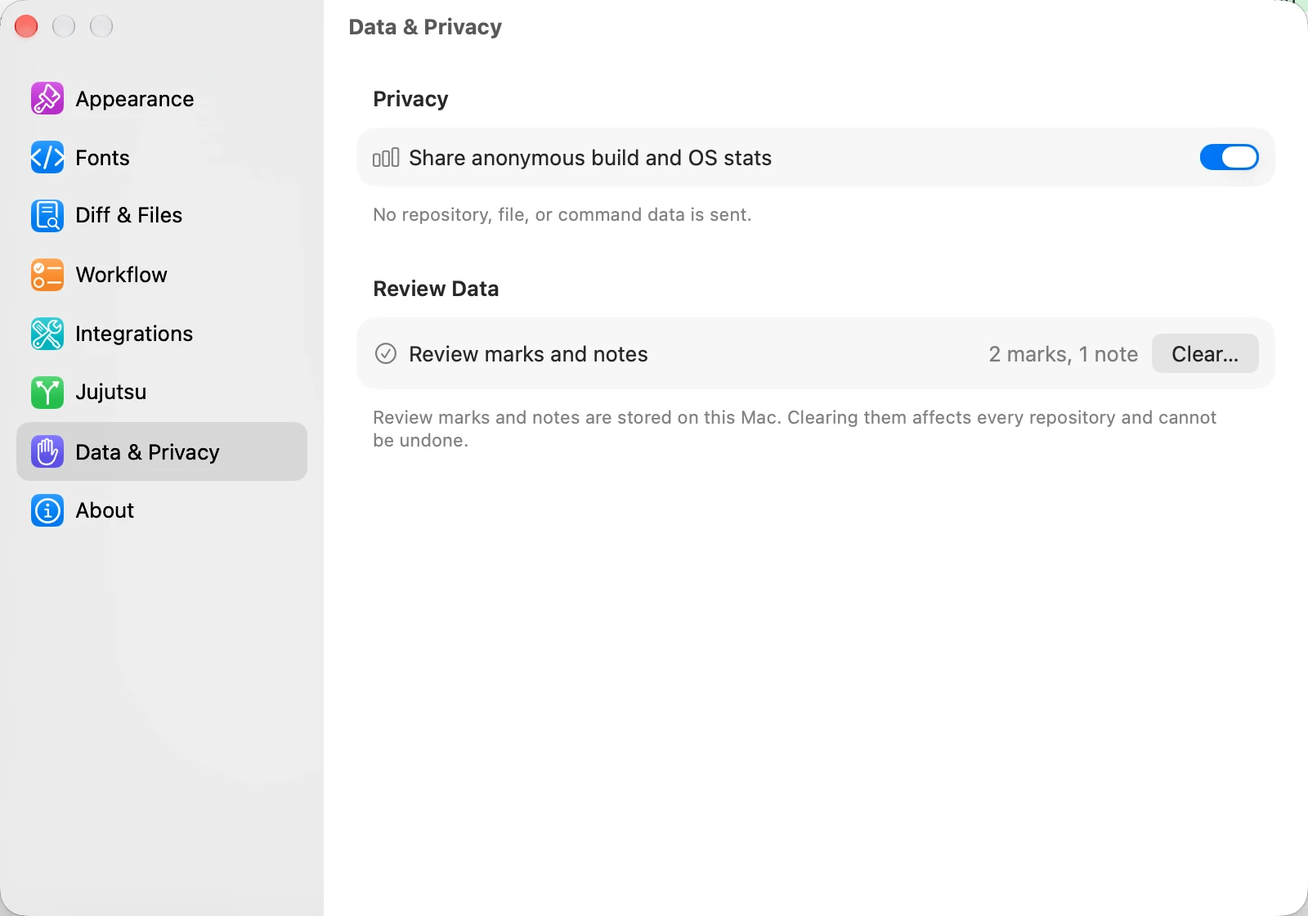
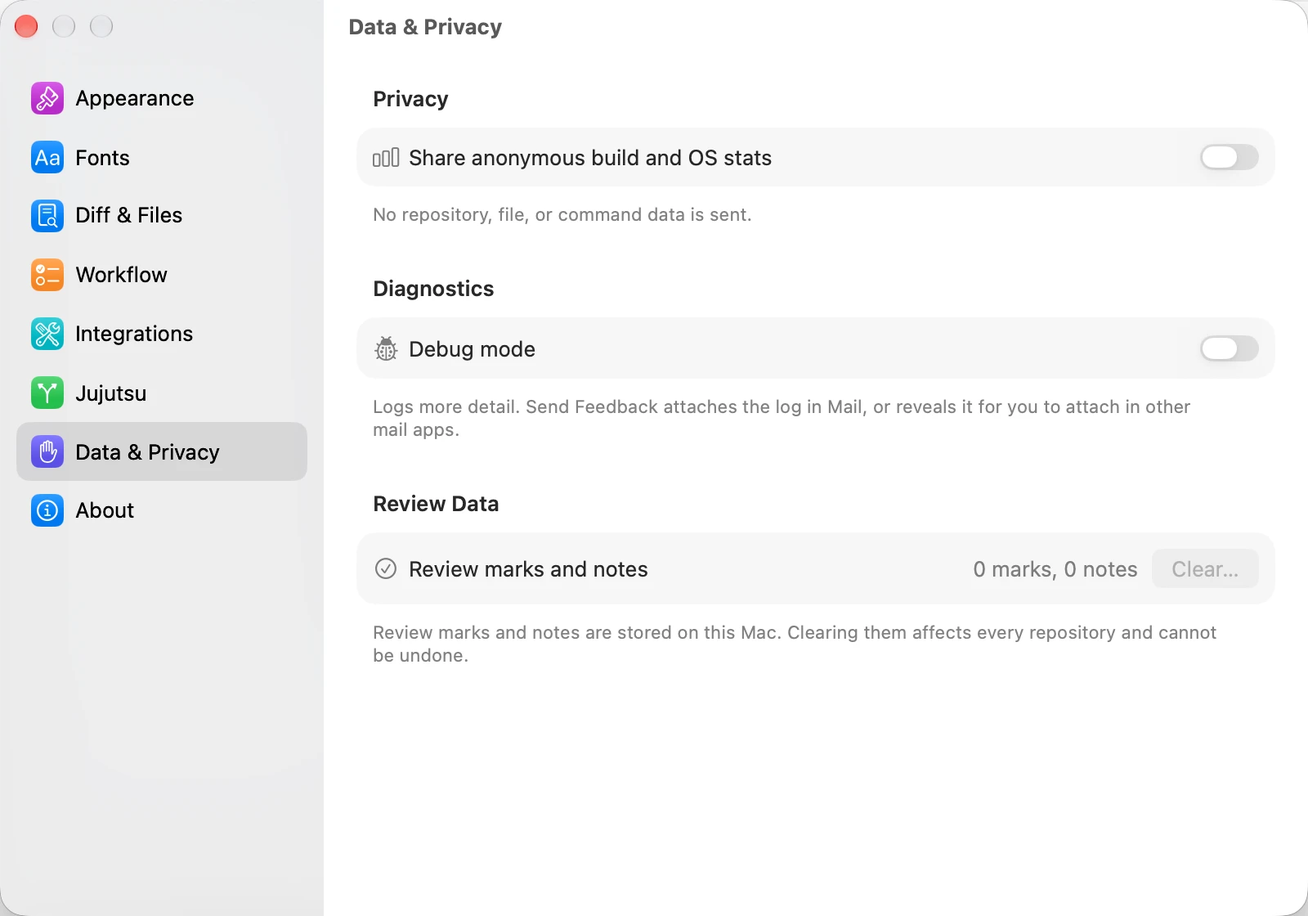
release: 0.3.22-beta.1 (build 75)
Start the 0.3.22 beta series without cutting a stable 0.3.21 release. Include workspace filters, file-manager shortcuts, shared diagnostics, expanded syntax highlighting, external-tool fixes, and GPUI responsiveness improvements.

Refresh the guide, offline Help, privacy and parity notes, Store install links, and changed-feature captures. Keep Microsoft Store updates reserved for stable releases.

diff --git a/docs/guide.html b/docs/guide.html
@@ -114,6 +114,7 @@
         <li>The detail header shows the selected change, description, author, status, bookmarks, PR state, and available actions. Co-authors named in description trailers and a distinct committer appear beside the author, with duplicate identities combined. The change-id and commit-id are shown with their shortest unique prefix in bold. A short description body takes only the lines it needs; a long one shows its first 80 points and scrolls; Expand shows up to 320 points while the file list and diff stay visible, and the bold summary with its Edit button stays put while the body scrolls.</li>
         <li>The file column lists changed files in flat or tree form and shows review status, conflicts, renames, and file-level actions. On macOS, hide or show the history sidebar with the toolbar button, View menu, or <code>Control-Command-S</code>. Drag the dividers to size the sidebar and file column; JayJay keeps those widths across launches and shrinks them in a smaller window so the diff pane keeps its room.</li>
         <li>The diff pane shows the selected file with unified or side-by-side layout, syntax highlighting, word-level changes, collapsed context, and rich previews for supported formats.</li>
+        <li>Syntax highlighting includes PowerShell, Batch, INI, CMake, and XML-family files, alongside the existing source-code formats.</li>
         <li>The status bar surfaces repository state, selected bookmark PR links/checks, and useful workspace context.</li>
         <li>Press <kbd>Tab</kbd> to move keyboard focus through the window: graph, file list and its controls, description, diff layout, edit buttons, toolbar, and the commit fields, wrapping at the end; <kbd>Shift+Tab</kbd> reverses. <kbd>Space</kbd> or <kbd>Return</kbd> activates the focused control, <kbd>Esc</kbd> returns to the pane, and the active pane draws a stronger selection.</li>
       </ul>
@@ -277,6 +278,7 @@
         <li>Create a new jj workspace from the Repository menu (<strong>New Workspace…</strong>) or the command palette: pick a destination folder and name, and JayJay runs <code>jj workspace add</code> so you get a second working copy backed by the same repository.</li>
         <li>Choose <strong>New Workspace from Pull Request…</strong> from the Repository menu or the command palette to check out a GitHub pull request or GitLab merge request: paste its URL, review the base repository, remote, bookmark, and head commit, then adjust the workspace name and location and let JayJay fetch the head and create the workspace. It adds the fork as a remote when needed, stops if the pull request moved since the preview, and offers to open the existing workspace instead of importing the same pull request twice. GitLab uses <code>GITLAB_TOKEN</code> when available, then an existing <code>glab auth login</code>; public merge requests also work without sign-in. Codeberg links are recognized but not yet supported.</li>
         <li>Click the repository title to search and switch between this repository's workspaces, other open windows, pinned repositories, and recent repositories. The picker's Overview button opens the Repo Overview.</li>
+        <li>Right-click a workspace in the title picker or its <code>name@</code> chip in the graph and choose <strong>Filter by This Workspace</strong> to narrow the graph to that workspace. Clear the revset filter to return to the default view. Open the current checkout in Finder from the folder toolbar button, <strong>Repository &gt; Show in Finder</strong>, or <kbd>Option+Cmd+F</kbd>; Windows and Linux use <strong>Show in File Manager</strong> and <kbd>Ctrl+Alt+F</kbd>.</li>
         <li>Choosing a workspace in the title picker, or a command-palette <strong>Switch to</strong> entry, opens it in the current window, or brings its window forward if it is already open. The window keeps showing the source workspace, with the refresh indicator spinning, until the destination has loaded; if the workspace fails to open, the source stays usable and JayJay shows the error. Unsaved commit-message drafts are kept per workspace, so switching away and back restores them. Option-click a workspace (<kbd>Alt</kbd>-click on Linux) or choose <strong>Open in New Window</strong> from its context menu for a separate window.</li>
         <li><strong>Repo Overview</strong> (Repository menu, <code>Cmd+Shift+O</code>, the command palette, or the picker's Overview button) opens a window with every lane of mutable work as a tree growing from trunk; the label on trunk names each lane's base, with its commit and age beneath. Each lane card shows its title, the workspaces and bookmarks on it, and its change count and age, or what needs attention: conflicts, undescribed changes, or an empty undescribed checkout above finished work. Click a lane to open its panel with the base, a <strong>Rebase onto trunk</strong> button when it is behind, its workspaces and how far below the head each sits, its bookmarks, and every change; click a change for its description and changed files, which you can select and copy. Filter lanes with <code>Cmd+F</code>, move between lanes and changes with the arrow keys, press <kbd>Return</kbd> to show the selection in its workspace window, press <kbd>Esc</kbd> to step back out of a panel, and use the context menu to rebase a lane onto trunk, abandon a lane or change, copy ids, or open, reveal, or forget a workspace. Show in Graph keeps following a change after it is rewritten, for example once you resolve its conflict.</li>
         <li>Workspace rows identify the current checkout and show each working copy's change-id, description, conflict state, age, and changed-file count. Other workspaces also appear as <code>name@</code> chips on their working-copy changes in the DAG; right-click a chip to open that workspace in a new window or copy its name or path.</li>
@@ -288,6 +290,11 @@
         <img class="dark-only" src="imgs/overview-dark.webp" alt="Repo Overview window with lanes of mutable work" width="3840" height="1950" loading="lazy">
         <img class="light-only" src="imgs/overview.webp" alt="Repo Overview window with lanes of mutable work" width="3840" height="1950" loading="lazy">
         <figcaption>Repo Overview: every lane of mutable work, the workspaces on it, and what needs attention.</figcaption>
+      </figure>
+      <figure class="shot">
+        <img class="dark-only" src="imgs/workspace-actions-dark.webp" alt="Workspace picker context menu with Filter by This Workspace" width="3840" height="1950" loading="lazy">
+        <img class="light-only" src="imgs/workspace-actions.webp" alt="Workspace picker context menu with Filter by This Workspace" width="3840" height="1950" loading="lazy">
+        <figcaption>Filter the graph from a workspace row without switching checkouts.</figcaption>
       </figure>
       <figure class="shot">
         <img class="dark-only" src="imgs/workspaces-dark.webp" alt="Search workspaces by name" width="360" height="235" loading="lazy">
@@ -334,6 +341,7 @@
       </ul>
       <p>To use JayJay from jj everywhere, run <code>jayjay config</code> for the paste-ready tool definition, or choose <strong>Copy Config</strong> in <strong>Settings → CLI</strong>, then add it to your jj config.</p>
       <p>Then use <code>jj -R /path/to/repo diff --tool jayjay</code> for a read-only comparison, <code>jj -R /path/to/repo split --tool jayjay</code> for interactive diff editing, or <code>jj -R /path/to/repo resolve --tool jayjay path/to/conflicted-file</code> for conflict resolution. <code>jj edit</code> selects the working-copy revision and does not accept a diff tool. The diff and split commands also work with jj's default two-path invocation, so the explicit <code>diff-args</code> and <code>edit-args</code> are optional.</p>
+      <p>On macOS, external diff session headers remain visible while files scroll. Diff and merge load failures show a readable error. Run <code>jayjay tool --help</code> to read the tool usage without opening a session.</p>
       <p>JayJay also accepts Git's custom diff and merge contracts:</p>
       <pre><code>[diff]
     tool = jayjay
@@ -422,9 +430,11 @@
         <li>Integrations holds editor, terminal, and AI commit-message providers, the <code>jayjay</code>/<code>jj</code> tools, and authentication sources for GitHub, GitLab, Codeberg, and Cursor Origin. Jujutsu reads your jj user config files directly, grouped by section with the value that wins for each key, and needs no <code>jj</code> binary; it shows <em>Config not found</em> for a missing file, or the load error and the file that failed, with an Open action.</li>
         <li>In <strong>Settings &gt; Integrations &gt; Forges</strong>, click <strong>Sign In…</strong> beside GitHub or GitLab, then <strong>Copy Code &amp; Open Browser</strong>. Paste the code into the forge’s page and approve access; the sheet closes when sign-in succeeds. <strong>Cancel</strong> stops waiting, and <strong>Sign Out</strong> removes the sign-in stored by JayJay. Environment tokens take precedence over JayJay sign-ins, followed by existing <code>gh</code>/<code>glab</code> logins; signing out of JayJay does not remove those other credentials.</li>
         <li>Data &amp; Privacy shows the number of stored review marks and notes, can clear them for every repository after confirmation, and holds the statistics switch.</li>
+        <li>Choose <strong>Help &gt; Reveal Logs</strong> to inspect the local <code>jayjay.log</code>. The log rotates after 2 MiB and keeps one previous file. Enable <strong>Debug mode</strong> in <strong>Settings &gt; Data &amp; Privacy</strong> for snapshot and graph timings; GPUI also monitors main-thread stalls throughout the session. Beta builds enable it by default, with your saved choice taking precedence.</li>
+        <li>With Debug mode enabled, <strong>Help &gt; Send Feedback</strong> attaches the log in Apple Mail when Mail is the default client on macOS. Other mail apps and GPUI open a draft asking for the log and reveal the file for you to attach. Review the draft and log before sending.</li>
         <li>In <strong>Jujutsu &gt; Identity</strong>, choose <strong>Set Up…</strong> or <strong>Edit…</strong> to save the author name and email to your jj user config. The sheet shows the file it will update; saving refreshes identity displays in open windows.</li>
         <li>Commit avatars can come from GitHub or Gravatar. Multi-window mode keeps one window per repository and deduplicates URL-scheme launches.</li>
-        <li>Choose <strong>Help &gt; Send Feedback</strong> to email us. The Help menu also opens the bundled JayJay Help Book, the full web user guide, jj documentation, and issue reporting.</li>
+        <li>The Help menu also opens the bundled JayJay Help Book, the full web user guide, jj documentation, and issue reporting.</li>
       </ul>
       <div class="shot-grid">
         <figure class="shot">
@@ -463,9 +473,9 @@
           <figcaption>Set the name and email jj records on your changes.</figcaption>
         </figure>
         <figure class="shot">
-          <img class="dark-only" src="imgs/settings-data-privacy-dark.webp" alt="JayJay Settings data and privacy panel" width="480" height="336" loading="lazy">
-          <img class="light-only" src="imgs/settings-data-privacy.webp" alt="JayJay Settings data and privacy panel" width="480" height="336" loading="lazy">
-          <figcaption>Data &amp; Privacy holds statistics and stored review data.</figcaption>
+          <img class="dark-only" src="imgs/settings-data-privacy-dark.webp" alt="JayJay Settings data and privacy panel" width="1600" height="1120" loading="lazy">
+          <img class="light-only" src="imgs/settings-data-privacy.webp" alt="JayJay Settings data and privacy panel" width="1600" height="1120" loading="lazy">
+          <figcaption>Data &amp; Privacy holds statistics, Debug mode, and stored review data.</figcaption>
         </figure>
         <figure class="shot">
           <img class="dark-only" src="imgs/settings-about-dark.webp" alt="JayJay Settings about panel" width="480" height="336" loading="lazy">
@@ -482,7 +492,7 @@
       <p>For the newest beta when it is ahead of stable, add <code>--beta</code>. This installs the signed pacman package on Arch, the Debian package on apt systems, and the AppImage elsewhere. Run the installer without sudo; it elevates package operations itself:</p>
       <pre><code>curl -fsSL https://jayjay.hewig.dev/install.sh | bash -s -- --beta</code></pre>
       <p>Debian and Ubuntu users can download the matching <code>.deb</code> (amd64 or arm64) from the same release page and install it with <code>sudo apt install ./jayjay_&lt;version&gt;-1_&lt;architecture&gt;.deb</code>.</p>
-      <p>A Windows x64 portable alpha ZIP is also attached to releases. Extract it and run <code>jayjay-gpui.exe</code>, with <code>jj</code> installed separately on PATH. It requires Windows 10 version 1903 or later, or Windows 11, and has no installer or automatic updater. Windows desktop behavior is still experimental.</p>
+      <p>On Windows, install JayJay from the <a href="https://apps.microsoft.com/detail/9pjrq1hg25vb">Microsoft Store</a> and launch it from the Start menu; the Store manages installation and updates. To try a beta, download the Windows x64 portable alpha ZIP from <a href="https://github.com/hewigovens/jayjay/releases">GitHub Releases</a>, extract it, and run <code>jayjay-gpui.exe</code>. Install <code>jj</code> separately on PATH for either distribution. Requires Windows 10 version 1903 or later, or Windows 11. The portable ZIP has no automatic updater, and Windows desktop behavior is still experimental.</p>
       <p>On Arch Linux (x86_64 and aarch64), use the signed pacman repo instead so stable upgrades arrive with the rest of your system. One command trusts the key, adds the repo, and prompts for a full system upgrade and installation:</p>
       <pre><code>curl -fsSL https://jayjay.hewig.dev/install.sh | bash -s -- --pacman-repo</code></pre>
       <p>Prefer reviewable steps? Trust the key once, append the repo to <code>/etc/pacman.conf</code> if it is not already present, then install:</p>

diff --git a/docs/index.html b/docs/index.html
@@ -61,7 +61,7 @@
       { "@type": "Question", "name": "Is JayJay open source?", "acceptedAnswer": { "@type": "Answer", "text": "JayJay is free and source-available. The macOS app is BSL 1.1 (free to use, fork, modify, and redistribute; only paid app-store distribution needs permission) and converts to Apache-2.0 on 2030-03-23. The Rust crates are Apache-2.0 today." } },
       { "@type": "Question", "name": "How do I install JayJay on Linux?", "acceptedAnswer": { "@type": "Answer", "text": "Run curl -fsSL https://jayjay.hewig.dev/install.sh | bash, which installs the latest Debian package on apt-based systems and the AppImage elsewhere for x86_64 or aarch64, after verifying its checksum; run it again to upgrade. On Arch Linux, use the signed pacman repo instead (curl -fsSL https://jayjay.hewig.dev/install.sh | bash -s -- --pacman-repo). Add --beta to install the newest beta when it is ahead of stable. Then run jayjay /path/to/repo or open a repository from the window. See the GPUI section of the user guide at jayjay.hewig.dev/guide.html." } },
       { "@type": "Question", "name": "Is there a pacman repo for JayJay on Arch Linux?", "acceptedAnswer": { "@type": "Answer", "text": "Yes, for stable releases on x86_64 and aarch64. One command trusts the key, adds the repo, and installs: curl -fsSL https://jayjay.hewig.dev/install.sh | bash -s -- --pacman-repo. Manual alternative: add the signing key from https://pkgs.hewig.dev/arch/jayjay-packages.asc with pacman-key --add, locally sign BA65B3D77235F76AAA32AE1EC6D21FA837FDEFEF, append a [jayjay] section to /etc/pacman.conf with SigLevel = Required DatabaseOptional and Server = https://pkgs.hewig.dev/arch/$arch, then run sudo pacman -Syu jayjay-appimage for a first install, or sudo pacman -Syu if already installed. Betas are not in the repo: install those with pacman -U from the pre-release page, and pacman leaves an installed beta alone until the repo's stable version is newer." } },
-      { "@type": "Question", "name": "Does JayJay work on Windows or Linux?", "acceptedAnswer": { "@type": "Answer", "text": "Yes on Linux. The Linux app is built on Zed's GPUI framework, shares its Rust core with the macOS app, and covers the jj workflows: the change graph, diffs and rich previews, review, diff edit, bookmarks, conflicts, workspaces, and the command palette. It ships with every release as an AppImage, Debian/Ubuntu package, and Arch Linux package for x86_64 and aarch64. A Windows x64 portable alpha ZIP is also available; it requires Windows 10 version 1903 or later, or Windows 11, with jj installed separately. The Windows alpha has no installer or automatic updater." } }
+      { "@type": "Question", "name": "Does JayJay work on Windows or Linux?", "acceptedAnswer": { "@type": "Answer", "text": "Yes. Linux and Windows use the GPUI shell and share the Rust core with macOS. Linux packages are available for x86_64 and aarch64 as AppImage, Debian/Ubuntu, and Arch packages. Install Windows x64 from the Microsoft Store, or use the portable alpha ZIP from GitHub Releases for beta builds. Windows requires Windows 10 version 1903 or later, or Windows 11, with jj installed separately. The Store manages its updates; the portable ZIP has no automatic updater." } }
     ]
   }
   </script>
@@ -572,6 +572,7 @@
           <p class="after">Packages are on <a class="link" href="https://github.com/hewigovens/jayjay/releases">GitHub Releases</a>.</p>
         </div>
       </div>
+      <p class="guide-link">Windows: <a href="https://apps.microsoft.com/detail/9pjrq1hg25vb">Get JayJay from the Microsoft Store</a>, or download a <a href="https://github.com/hewigovens/jayjay/releases">portable beta ZIP</a>. Install <code>jj</code> separately.</p>
     </div>
   </section>
 
@@ -635,7 +636,7 @@
         </details>
         <details>
           <summary>Does JayJay work on Windows or Linux?</summary>
-          <p>Yes on Linux. The Linux app is built on Zed's <a href="https://github.com/zed-industries/zed">GPUI</a> framework, shares its Rust core with the macOS app, and covers the jj workflows: the change graph, diffs and rich previews, review, diff edit, bookmarks, conflicts, workspaces, and the command palette. It ships with every release as an AppImage, Debian/Ubuntu package, and Arch Linux package; see the <a href="guide.html#gpui">guide</a> and the <a href="https://github.com/hewigovens/jayjay/issues/165">GPUI checklist</a>. A Windows x64 portable alpha ZIP is also available: extract it and run <code>jayjay-gpui.exe</code>, with <code>jj</code> installed separately on PATH. It requires Windows 10 version 1903 or later, or Windows 11, and has no installer or automatic updater.</p>
+          <p>Linux and Windows use the GPUI shell and share the Rust core with macOS. Linux ships as an AppImage, Debian/Ubuntu package, and Arch package for x86_64 and aarch64; see the <a href="guide.html#gpui">guide</a>. Install Windows x64 from the <a href="https://apps.microsoft.com/detail/9pjrq1hg25vb">Microsoft Store</a>, or use the portable alpha ZIP from <a href="https://github.com/hewigovens/jayjay/releases">GitHub Releases</a> for beta builds. Windows requires Windows 10 version 1903 or later, or Windows 11, with <code>jj</code> installed separately. The Store manages its updates; the portable ZIP has no automatic updater.</p>
         </details>
       </div>
     </div>

diff --git a/shell/mac/Resources/JayJayHelpBook/Contents/Resources/English.lproj/topics/open.html b/shell/mac/Resources/JayJayHelpBook/Contents/Resources/English.lproj/topics/open.html
@@ -39,6 +39,7 @@
       <li>Onboarding offers <strong>Set Up…</strong> when your jj author identity is missing. Enter the name and email that jj should record on new changes, or set them later in <strong>Settings &gt; Jujutsu</strong>.</li>
       <li>The Repository List separates persistent <strong>Pinned</strong> repositories from <strong>Recent Repositories</strong> and groups recent sibling-workspace checkouts beneath their primary repository. Use the pin button to keep a repository in the list; clearing Recent does not remove pins, and unpinning returns a repository to Recent. Recent Repositories sit in a side panel that opens with your first recent repository, closes when the last one is removed, and toggles from the sidebar button in between. Drag its divider to size the panel; the width persists across launches, and workspace rows show their path under the name.</li>
       <li>Click the repository title to search this repository's workspaces, other open windows, pinned repositories, and recent repositories, or return to the full Repository List. Use Overview in the picker to open the Repo Overview, and a row's context menu to pin or unpin that repository or workspace.</li>
+      <li>Right-click a workspace row in the title picker, or its <code>name@</code> graph chip, and choose <strong>Filter by This Workspace</strong> to narrow the graph without switching checkouts. Clear the revset filter to restore the default view. Choose <strong>Repository &gt; Show in Finder</strong>, press <code>Option-Command-F</code>, or use the folder toolbar button to reveal the current checkout.</li>
       <li>Choosing a workspace in the title picker, or a command-palette <strong>Switch to</strong> entry, opens it in the current window, or brings its window forward if it is already open. The window keeps showing the source workspace, with the refresh indicator spinning, until the destination has loaded; if it fails to open, the source stays usable and JayJay shows the error. Unsaved commit-message drafts are kept per workspace. Option-click a workspace or choose <strong>Open in New Window</strong> from its context menu for a separate window.</li>
       <li>To create a workspace, choose <strong>Repository &gt; New Workspace…</strong> or find New Workspace in the command palette. Enter a workspace name and choose <strong>Create</strong>. JayJay creates a sibling directory with that name beside the current checkout and opens the new workspace. Cancel closes the sheet without creating it.</li>
       <li>To check out a GitHub pull request or GitLab merge request, choose <strong>Repository &gt; New Workspace from Pull Request…</strong>: paste its URL and choose <strong>Resolve</strong>. Review the repository, bookmark, and destination in the preview, adjust the workspace name if needed, then choose <strong>Fetch &amp; Create Workspace</strong>. JayJay fetches the head and opens the new checkout; if it already exists, choose <strong>Open Workspace</strong> instead. GitLab uses <code>GITLAB_TOKEN</code> when available, then an existing <code>glab auth login</code>; public merge requests work without sign-in. A workspace row can open or copy the workspace name or checkout path, forget only the jj workspace metadata, or safely forget and delete the checkout after confirmation.</li>

diff --git a/shell/mac/Resources/JayJayHelpBook/Contents/Resources/English.lproj/topics/settings.html b/shell/mac/Resources/JayJayHelpBook/Contents/Resources/English.lproj/topics/settings.html
@@ -3,7 +3,7 @@
 <head>
   <meta http-equiv="Content-Type" content="text/html; charset=utf-8" />
   <meta name="description" content="Configure JayJay appearance, diff behavior, editor, terminal, CLI tools, and jj settings." />
-  <meta name="keywords" content="jayjay, settings, theme, font, editor, terminal, cli, jj config, ai provider, sign in, sign out, github, gitlab, gh, glab, origin" />
+  <meta name="keywords" content="jayjay, settings, theme, font, editor, terminal, cli, jj config, diagnostics, debug mode, logs, reveal logs, feedback, ai provider, sign in, sign out, github, gitlab, gh, glab, origin" />
   <title>Configure tools and settings</title>
   <link rel="stylesheet" type="text/css" href="../sty/help.css" />
 </head>
@@ -46,7 +46,8 @@
       <li>The update channel dropdown in About switches between Stable and Beta; the Beta channel receives pre-release builds through the regular update check.</li>
       <li><strong>Data &amp; Privacy</strong> shows how many review marks and notes are stored. <strong>Clear…</strong> beside <strong>Review marks and notes</strong> opens a confirmation; choosing Clear there removes them for every repository on this Mac. This cannot be undone through the repository’s operation log.</li>
       <li>Anonymous build and OS statistics are enabled by default and can be disabled here. JayJay sends no repository, file, or command data, and rotating identifiers cannot link an installation across months.</li>
-      <li>Choose <strong>Help &gt; Send Feedback</strong> to email us.</li>
+      <li>Choose <strong>Help &gt; Reveal Logs</strong> to inspect the local <code>jayjay.log</code>; it rotates after 2 MiB and keeps one previous file. In <strong>Settings &gt; Data &amp; Privacy &gt; Diagnostics</strong>, enable <strong>Debug mode</strong> to record snapshot and graph timings. Beta builds enable it by default unless you have saved a preference.</li>
+      <li>With Debug mode enabled, <strong>Help &gt; Send Feedback</strong> attaches the log when Apple Mail is your default mail client, or reveals it for you to attach in another mail app. Review the draft and log before sending.</li>
     </ul>
     <p><a href="../Start.html">Back to JayJay Help</a> · <a href="https://jayjay.hewig.dev/guide.html#settings">Online guide with screenshots</a></p>
   </div>

diff --git a/shell/mac/Tests/JayJayUITests/Screenshots/ReleaseScreenshots.swift b/shell/mac/Tests/JayJayUITests/Screenshots/ReleaseScreenshots.swift
@@ -173,13 +173,31 @@ final class ReleaseScreenshots: ScreenshotScene {
         keyStroke(",", modifiers: [.command])
         let pages = [
             ("fonts", "fonts"), ("diff", "diff"), ("workflow", "workflow"),
-            ("jujutsu", "jj"), ("dataPrivacy", "data-privacy"), ("about", "about")
+            ("jujutsu", "jj"), ("about", "about")
         ]
         for (page, name) in pages {
             selectSettingsPage(page, in: app)
             settle()
             capture("settings-\(name)", frame: settingsWindow(in: app).frame)
         }
+    }
+
+    func testWorkspaceActions() throws {
+        let app = try XCTUnwrap(app)
+        openRepositoryTitlePicker(in: mainWindow(app))
+        let workspace = app.element(AID.Picker.row("ws-route-experiment")).firstMatch
+        XCTAssertTrue(workspace.waitForExistence(timeout: 5), "Workspace row missing")
+        rightClickCenter(workspace)
+        XCTAssertTrue(app.menuItems["Filter by This Workspace"].waitForExistence(timeout: 5), "Workspace filter action missing")
+        capture("workspace-actions", frame: mainFrame)
+    }
+
+    func testSettingsDataPrivacy() throws {
+        let app = try XCTUnwrap(app)
+        keyStroke(",", modifiers: [.command])
+        selectSettingsPage("dataPrivacy", in: app)
+        XCTAssertTrue(settingsWindow(in: app).staticTexts["Diagnostics"].waitForExistence(timeout: 5), "Diagnostics section missing")
+        capture("settings-data-privacy", frame: settingsWindow(in: app).frame)
     }
 
     func testSettingsAppearance() throws {

diff --git a/docs/privacy.html b/docs/privacy.html
@@ -75,7 +75,9 @@
 
       <section class="g" id="local">
         <h2>Data on your computer</h2>
-        <p>Review marks and notes, settings, the avatar cache, and the statistics secret are stored in JayJay's local application folders and are never uploaded. You can clear review data from Settings › Data &amp; Privacy, and uninstalling the app removes the rest.</p>
+        <p>Review marks and notes, settings, the avatar cache, and the statistics secret stay in JayJay's local application folders. You can clear review data from Settings › Data &amp; Privacy.</p>
+        <p>Both shells also write a local <code>jayjay.log</code>, rotated after 2 MiB with one previous file retained. Debug mode in Settings › Data &amp; Privacy adds snapshot and graph timings; GPUI also records main-thread stalls. Beta builds enable Debug mode by default unless you have saved a preference. Use Help › Reveal Logs to inspect the file.</p>
+        <p>With Debug mode enabled, Help › Send Feedback prepares an email draft with the log attached when Apple Mail is the default mail app on macOS. Other mail apps and GPUI reveal the file for you to attach. Logs can include local paths and error details; review the draft and log before sending them.</p>
         <p>JayJay does not include crash reporting, advertising, or third-party analytics.</p>
       </section>
 

diff --git a/shell/mac/Resources/JayJayHelpBook/Contents/Resources/English.lproj/topics/conflicts.html b/shell/mac/Resources/JayJayHelpBook/Contents/Resources/English.lproj/topics/conflicts.html
@@ -41,6 +41,7 @@
     </ul>
     <p>For direct CLI use, first install the bundled <code>jayjay</code> launcher from <strong>Settings &gt; Integrations &gt; Version control</strong> and ensure <code>~/.local/bin</code> is on your PATH; see <a href="settings.html">tools and settings</a>. Run <code>jayjay config</code> for the paste-ready tool definition, or choose <strong>Copy Config</strong> beside <strong>jj tool configuration</strong> on that settings page. Paste it into your jj user config file; <code>jj config path --user</code> prints its path.</p>
     <p>Then run <code>jj -R /path/to/repo diff --tool jayjay</code> for a read-only comparison, <code>jj -R /path/to/repo split --tool jayjay</code> for interactive diff editing, or <code>jj -R /path/to/repo resolve --tool jayjay path/to/conflicted-file</code> for conflict resolution. <code>jj edit</code> selects the working-copy revision and does not accept a diff tool.</p>
+    <p>External diff session headers remain visible while you scroll. Diff and merge load failures show a readable error. Run <code>jayjay tool --help</code> to see usage without opening a session.</p>
     <p>For Git, configure the same app as a custom diff and merge tool:</p>
     <pre><code>[diff]
     tool = jayjay

diff --git a/releases/0.3.22-beta.1.html b/releases/0.3.22-beta.1.html
@@ -1,0 +1,13 @@
+<h2>Workspaces and file navigation</h2>
+<ul>
+  <li>Filter the graph to a workspace from its picker row or graph chip. Open the current repository in Finder from the toolbar, Repository menu, or Option-Command-F.</li>
+  <li>External diff sessions keep their header visible while scrolling. Diff and merge sessions show readable errors when files cannot be loaded. <code>jayjay tool --help</code> prints usage without opening a session.</li>
+</ul>
+
+<h2>Diagnostics and review tools</h2>
+<ul>
+  <li>Use Help → Reveal Logs to inspect the local log. Debug mode in Settings → Data &amp; Privacy records additional snapshot and graph timings; beta builds enable it by default unless you have saved a preference.</li>
+  <li>With Debug mode enabled, Send Feedback attaches the log when Apple Mail is your default mail app, or reveals it for you to attach in another mail app. Review the draft and log before sending.</li>
+  <li>Syntax highlighting now supports PowerShell, Batch, INI, CMake, and XML-family files. A published JayJay Agent Skill helps coding agents work with your review notes and marks.</li>
+  <li>Updated dependencies include security and compatibility fixes.</li>
+</ul>

diff --git a/shell/mac/Resources/JayJayHelpBook/Contents/Resources/English.lproj/topics/review.html b/shell/mac/Resources/JayJayHelpBook/Contents/Resources/English.lproj/topics/review.html
@@ -38,6 +38,7 @@
       <li>Moved code has linked line-number badges in unified and side-by-side diffs. Click a badge to jump to the matching block in the same file; its destination is briefly highlighted.</li>
       <li>Binary sizes follow your locale. Hover over a size to see the exact byte count.</li>
       <li>Use <code>Cmd+F</code> to search in the current diff.</li>
+      <li>Syntax highlighting includes PowerShell, Batch, INI, CMake, and XML-family files alongside the other supported source formats.</li>
       <li>Use <strong>Show 10</strong> or <strong>Show all</strong> on an unmodified-lines row to reveal collapsed context in place.</li>
       <li>Click a changed group's gutter stripe to review that hunk. File rows show unreviewed, partial, reviewed, or changed-since-review state.</li>
       <li>Review marks are local and survive app restarts. A uniquely matching hunk stays reviewed across edits and rebases, so changing one hunk does not discard review work on the others.</li>

diff --git a/agents/shell-parity.md b/agents/shell-parity.md
@@ -29,13 +29,13 @@ At release, update this matrix when the user guide adds a feature, a shell close
 | Edit Diffs & Split Work | Yes | Yes | Same Diff Edit destinations, gutter discard, per-file cards/stats/collapse/keyboard focus, and working-copy text editor. Historical, compare, conflicted, removed, projected, and image files stay read-only. Both honor jj and Git custom difftool contracts. A line-number context menu opens the working-copy editor or a supported external editor at that source line in either layout. |
 | Change Operations | Yes | Yes | Same change/file mutations, including Parallelize for a connected run from the multi-selection menu and palette, and commit-box draft reseeding. Both reuse the commit box's Summary and Description fields in the description dialog and keep the working-copy draft; GPUI moves between the fields with Tab and Shift-Tab. Apple Intelligence is SwiftUI-only; GPUI uses codex/claude. Both run `jj fix` over the selection and descendants from `[fix.tools]` (accepting `line-range-args` and `line-range-arg`), choose the first parent for a multi-selection merge, and create lightweight tags. |
 | Bookmarks, Git & Pull Requests | Yes | Yes | GPUI covers create, rename in Bookmark Manager, DAG drag/move with the post-drag Push banner, tracking, push/delete, fetch/push (GPUI posts a Linux desktop notification when a fetch or push finishes in an inactive window), remote URLs, GitHub/GitLab/Codeberg/Cursor Origin PR/MR open, selected-bookmark CI, and the Bookmark Manager stats bar, Show deleted, remote sync badges, and row actions (resolve, track, push, PR/MR, delete, forget). Both open the Bookmarks picker from the graph header: a click selects the bookmark's change (filtering to its stack when off-graph), Filter by This Bookmark narrows to the bookmark and its changes over trunk, and Remote Only rows browse a remote's history without tracking. Pull/Push no longer auto-track. Both clean up bookmarks whose remote branch was deleted after a fetch and show `deleted on <remote>` in Bookmark Manager. GPUI bookmark menus now rename, pull, and choose the remote when tracking; in-flight pull and push can be canceled. Both push and delete tags from the tag chip, including Delete Tag on Remote with local restore on failure. |
-| Workspaces | Yes | Yes | Both create (including New Workspace from Pull Request with the same preview, existing-workspace Open, and head-moved check), open, show context, search through a filterable title picker and switch workspaces in the current window from it or the palette's Switch to entries (the source stays until the destination loads, drafts are kept per workspace, Option/Alt-click or Open in New Window opens a separate window; GPUI also closes the window's child windows on switch), copy workspace names and paths from the picker or a DAG `name@` chip menu, group sibling checkouts beneath their primary repository, forget, and Forget & Delete after a confirmation that Don't ask again skips and Settings → Workflow restores. Both release matching Git worktree registrations when forgetting a checkout, so its path can be reused. Both pickers have an Overview button that opens the Repo Overview window: every lane of mutable work with workspace offsets and attention notes, lane and change panels with selectable text, lane rebase and abandon, and workspace forget. Both import GitLab merge requests and flag a stale working copy with an `@` glyph, a Refresh badge, and Update Workspace. |
+| Workspaces | Yes | Yes | Both create (including New Workspace from Pull Request with the same preview, existing-workspace Open, and head-moved check), open, show context, search through a filterable title picker and switch workspaces in the current window from it or the palette's Switch to entries (the source stays until the destination loads, drafts are kept per workspace, Option/Alt-click or Open in New Window opens a separate window; GPUI also closes the window's child windows on switch), filter the graph by a workspace or copy its name and path from the picker or a DAG `name@` chip menu, group sibling checkouts beneath their primary repository, forget, and Forget & Delete after a confirmation that Don't ask again skips and Settings → Workflow restores. Both release matching Git worktree registrations when forgetting a checkout, so its path can be reused. Both pickers have an Overview button that opens the Repo Overview window: every lane of mutable work with workspace offsets and attention notes, lane and change panels with selectable text, lane rebase and abandon, and workspace forget. Both import GitLab merge requests and flag a stale working copy with an `@` glyph, a Refresh badge, and Update Workspace. |
 | Stacked Pull Requests | Yes | Yes | Same preview, name validation, and dependent-base submit. All four forges use direct APIs. GitHub and GitLab accept environment tokens, Settings sign-in, or existing CLI logins. GitHub can link a native stack through its API with dependent-chain fallback; GitLab detects the MR stack; Cursor Origin uses `origin auth login` credentials; Codeberg creates dependent PRs with stack links using `CODEBERG_TOKEN`, `FORGEJO_TOKEN`, or a `tea` login. Done opens the top GitHub linked PR, the highest GitLab MR, and every PR for a GitHub fallback or Origin stack. |
 | Conflict Resolution | Yes | Yes | Same conflict modal (hunk/raw, ours/theirs, Base, n-way markers) over the mounted detail, and Use Ours / Use Theirs for submodule and other non-text conflicts. Both honor jj and Git mergetool contracts. Both synchronize source/result scrolling from a shared Rust line map and reveal the selected hunk in every pane; GPUI panes also number their lines. |
 | Inspection Tools | Yes | Yes | Annotate, file history, and evolog use the same revs, copy values, compare targets, and working-copy snapshot collapsing/filtering. Both restore a previous evolog version into the working copy or the opened change and refuse immutable targets. File History opens separately with a selected-revision diff, Pin as Base, target selection, swap/clear, and Show in Graph. Both bisect from endpoints or a revset range, accept manual Good/Bad/Skip verdicts or a shell test for one step/to the end, and restore the original working copy when stopped. |
 | Command Palette | Yes | Yes | Action names, raw jj, output handling, and searchable help topics stay aligned even if presentation differs. |
-| Tools & Settings | Yes | Yes | Shared config ids. Both copy the Rust-owned jj tool definition; `jayjay config` prints it. Both edit custom editor/terminal commands with arguments, and Linux defaults to the system editor and terminal (`$VISUAL`/`$EDITOR`, `$TERMINAL`, `xdg-terminal-exec`). Both use the same Settings pages (GPUI now has a resizable sidebar), including Fonts with interface and code font families and sizes, code line spacing and ligatures, a live preview, and Reset Fonts. Appearance selects separate light and dark diff palettes. Integrations holds editors, terminals, AI providers (GPUI: codex/claude; SwiftUI: reorderable codex/claude/Apple Intelligence chain), and the jj CLI, GitHub/GitLab Sign In and Sign Out, detected GitHub/GitLab/Codeberg/Cursor authentication sources, plus the Linux `jayjay` install (AppImage-aware symlink in `~/.local/bin`); Diff & Files holds Auto-expand descriptions; Workflow holds confirmations; Jujutsu lists the user config from core's stacked config without the jj binary, with missing and failed-to-load states; Jujutsu can set or edit the author name and email in the user config; Data & Privacy holds review data and statistics, including clearing stored marks and notes in both shells. SwiftUI-only macOS integrations are outside the GPUI Linux parity target. |
-| Help & User Guide Access | Yes | Yes | Same help content, Send Feedback, and Keyboard Shortcuts. Linux GPUI uses `xdg-open`. Palette topics come from shared `HelpFeatures.json`. Bundled Help Book is SwiftUI-only. |
+| Tools & Settings | Yes | Yes | Shared config ids. Both copy the Rust-owned jj tool definition; `jayjay config` prints it. Both edit custom editor/terminal commands with arguments, and Linux defaults to the system editor and terminal (`$VISUAL`/`$EDITOR`, `$TERMINAL`, `xdg-terminal-exec`). Both use the same Settings pages (GPUI now has a resizable sidebar), including Fonts with interface and code font families and sizes, code line spacing and ligatures, a live preview, and Reset Fonts. Appearance selects separate light and dark diff palettes. Integrations holds editors, terminals, AI providers (GPUI: codex/claude; SwiftUI: reorderable codex/claude/Apple Intelligence chain), and the jj CLI, GitHub/GitLab Sign In and Sign Out, detected GitHub/GitLab/Codeberg/Cursor authentication sources, plus the Linux `jayjay` install (AppImage-aware symlink in `~/.local/bin`); Diff & Files holds Auto-expand descriptions; Workflow holds confirmations; Jujutsu lists the user config from core's stacked config without the jj binary, with missing and failed-to-load states; Jujutsu can set or edit the author name and email in the user config; Data & Privacy holds review data, statistics, and Debug mode in both shells. Debug mode adds snapshot and graph timings, and GPUI main-thread stall monitoring; beta builds default it on unless a preference was saved. GPUI resolves fonts only when font preferences change and loads the Settings font catalog in the background. Both can clear stored marks and notes. SwiftUI-only macOS integrations are outside the GPUI Linux parity target. |
+| Help & User Guide Access | Yes | Yes | Same help content, Reveal Logs, Send Feedback, and Keyboard Shortcuts. Both write a rotating local `jayjay.log`; with Debug mode enabled, SwiftUI attaches it through default Apple Mail or reveals it for other mail clients, while GPUI asks for it in the draft and reveals the file. Linux GPUI uses `xdg-open`. Palette topics come from shared `HelpFeatures.json`. Bundled Help Book is SwiftUI-only. |
 | Keyboard Shortcuts | Yes | Yes | GPUI implements the published guide shortcuts, including Tab focus cycling. Both expose **Help → Keyboard Shortcuts** on `mod+/`; GPUI shows platform-correct keys (`Ctrl` on Linux). Both map `h`/`l` to Left/Right for pane moves and Diff Edit card collapse. Control-Return opens the selected change or file menu; GPUI also accepts Menu and Shift-F10, and both support menu action keys. |
 | GPUI Shell Alpha | N/A | Yes | The guide's GPUI alpha section is the source of truth. Refresh it and this matrix together at release. |
 

diff --git a/README.md b/README.md
@@ -12,10 +12,11 @@
 [![Release](https://img.shields.io/github/v/release/hewigovens/jayjay?include_prereleases)](https://github.com/hewigovens/jayjay/releases)
 [![Downloads](https://img.shields.io/github/downloads/hewigovens/jayjay/total?style=flat-square&color=a6e3a1&labelColor=1e1e2e)](https://github.com/hewigovens/jayjay/releases)
 
-**JayJay is a native macOS and Linux GUI for [Jujutsu](https://github.com/jj-vcs/jj), with reusable Rust libraries for diff and review tooling.**
+**JayJay is a native GUI for [Jujutsu](https://github.com/jj-vcs/jj) on macOS and Linux, with a Windows alpha and reusable Rust libraries for diff and review tooling.**
 
 - **macOS:** native SwiftUI app.
 - **Linux:** GPUI app. Its macOS build is for development.
+- **Windows:** GPUI alpha, available from the Microsoft Store or as a portable ZIP.
 - **Rust libraries:** diffing, review state, repository operations, and app bindings.
 
 
@@ -87,7 +88,7 @@ Debian/Ubuntu packages for amd64 and arm64 are also attached to each release. Do
 
 #### Windows alpha
 
-Download the Windows x64 portable alpha ZIP from [GitHub Releases](https://github.com/hewigovens/jayjay/releases), extract it, and run `jayjay-gpui.exe`. Requires Windows 10 version 1903 or later, or Windows 11, with `jj` installed separately on PATH. The alpha has no installer or automatic updater; Windows desktop behavior is still experimental.
+Install JayJay from the [Microsoft Store](https://apps.microsoft.com/detail/9pjrq1hg25vb) and launch it from the Start menu. The Store manages installation and updates. To try beta builds, download the Windows x64 portable alpha ZIP from [GitHub Releases](https://github.com/hewigovens/jayjay/releases), extract it, and run `jayjay-gpui.exe`; the portable ZIP has no automatic updater. Requires Windows 10 version 1903 or later, or Windows 11, with `jj` installed separately on PATH. Windows desktop behavior is still experimental.
 
 ### Feedback
 

diff --git a/releases/0.3.22-beta.1-gpui.md b/releases/0.3.22-beta.1-gpui.md
@@ -1,0 +1,11 @@
+### Windows and Linux improvements
+
+- GPUI resolves fonts when font preferences change and builds the Settings font catalog in the background, reducing pauses when opening repositories and font menus.
+- Workspace picker rows and graph chips offer **Filter by This Workspace**. **Show in File Manager** is available from the Repository menu with Ctrl+Alt+F on Windows and Linux.
+- **Help → Reveal Logs** opens the shared local log. **Debug mode** in **Settings → Data & Privacy** adds snapshot and graph timings and monitors main-thread stalls throughout the session. It defaults to on in beta builds unless you have saved a preference; Send Feedback reveals the log for you to attach.
+- Syntax highlighting adds PowerShell, Batch, INI, CMake, and XML-family files. The repository list uses a clearer sidebar toggle icon.
+- Updated GPUI and Rust dependencies include security and compatibility fixes.
+
+### Windows installation
+
+JayJay is now listed in the [Microsoft Store](https://apps.microsoft.com/detail/9pjrq1hg25vb). Use the portable Windows x64 ZIP attached to this GitHub prerelease to try this beta. Store updates are submitted separately for stable releases. Install `jj` separately on PATH for either distribution.
